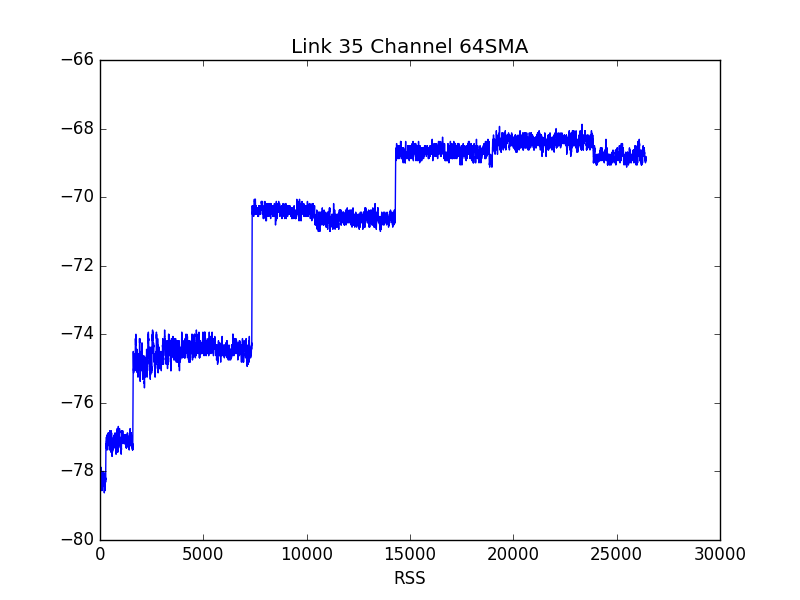
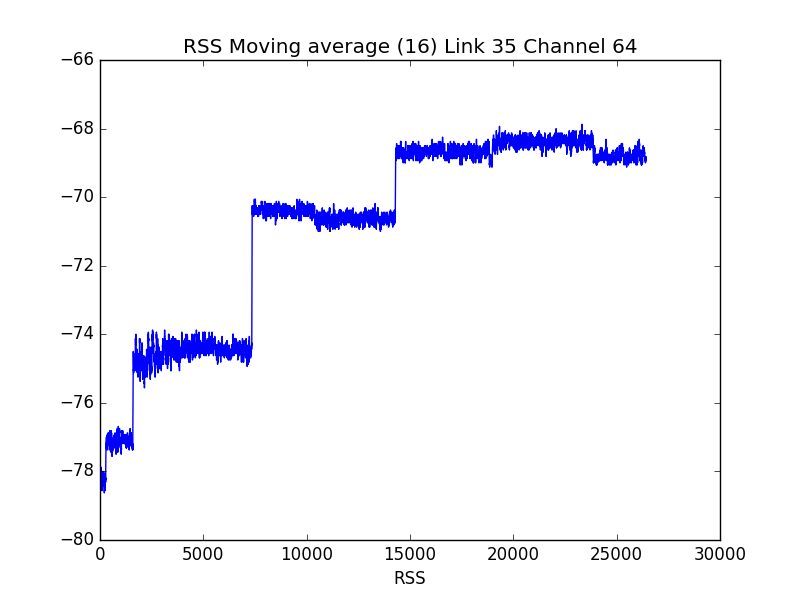
Fixed some plots...

Changed region(s): [[0.2188, 0.06, 0.8125, 0.09]]

diff --git a/group06_hw03/task_a/task_a1.py b/group06_hw03/task_a/task_a1.py
@@ -46,9 +46,10 @@ def main():
     plt.title("Boxplots")
     fig = plt.figure(1)
     ax = fig.add_subplot(111)
-    ax.boxplot(data_to_plot)
+    ax.boxplot(data_to_plot, 1)
     ax.set_xticklabels(box_names)
     plt.xticks(rotation=45)
+    plt.ylabel("RSS")
     plt.show()
 
 
@@ -112,7 +113,7 @@ def get_rss_from_file(file):
 
 def plot_moving_avg(combination):
     plt.close()
-    plt.title(combination.name + "SMA")
+    plt.title("RSS Moving average (16) " + combination.name)
     plt.xlabel("RSS")
     plt.plot(sma(combination.rss, 16), label="SMA")
     plt.savefig("sma-l%ic%i.png" % (combination.link, combination.channel))

diff --git a/group06_hw03/task_c/task1c.py b/group06_hw03/task_c/task1c.py
@@ -3,7 +3,7 @@ import csv
 import glob
 
 def main():
-    # plot_rss()
+    plot_rss()
     plot_delivery_rates()
 
 def plot_delivery_rates():
@@ -41,6 +41,7 @@ def plot_delivery_rates():
     plt.scatter(channels, rates)
     plt.xticks(channels)
     plt.show()
+    plt.close()
 
 
 
@@ -107,6 +108,7 @@ def plot_rss():
     plt.scatter(plotx, ploty)
     plt.xticks(plotx)
     plt.show()
+    plt.close()
 
 
 
